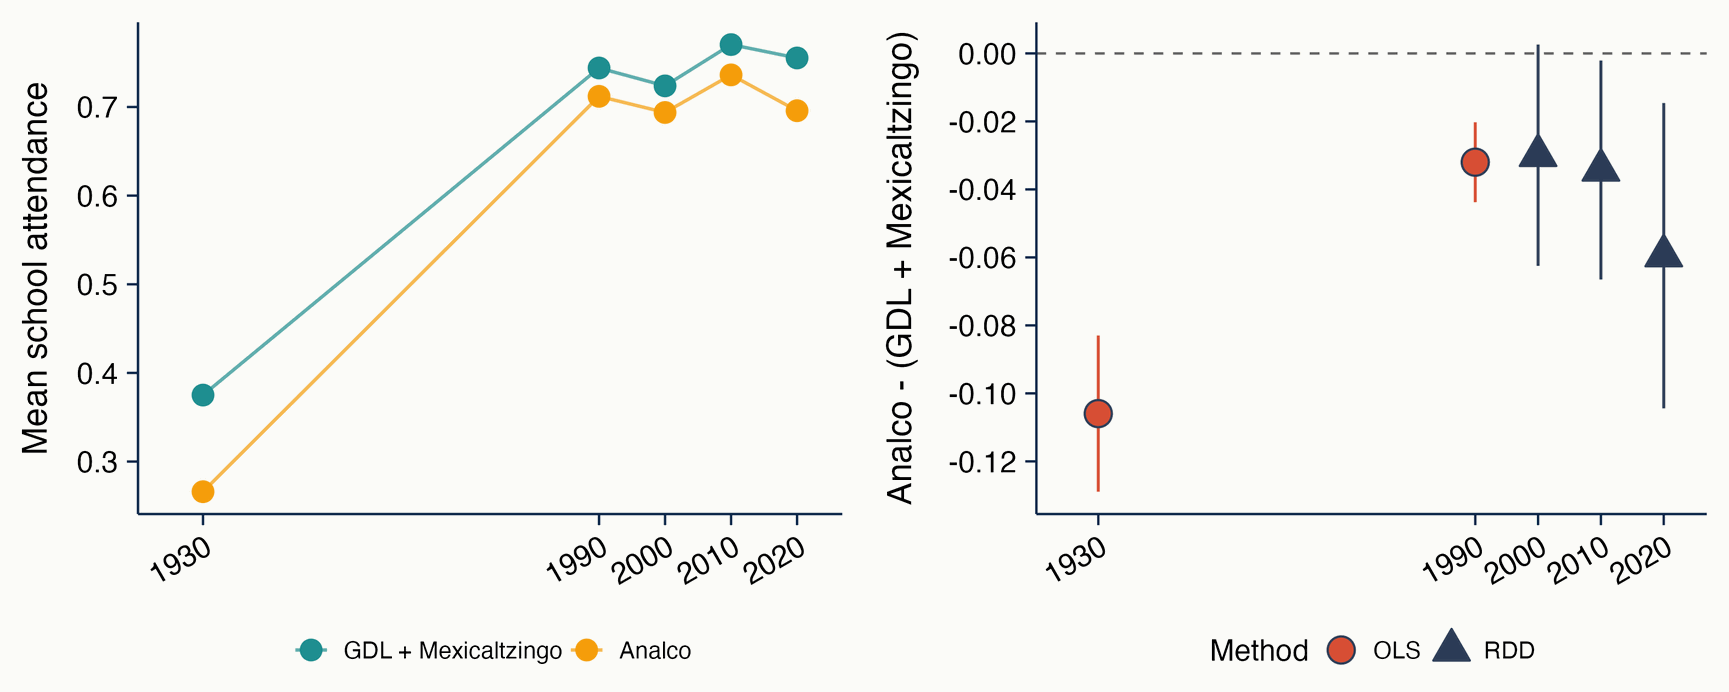
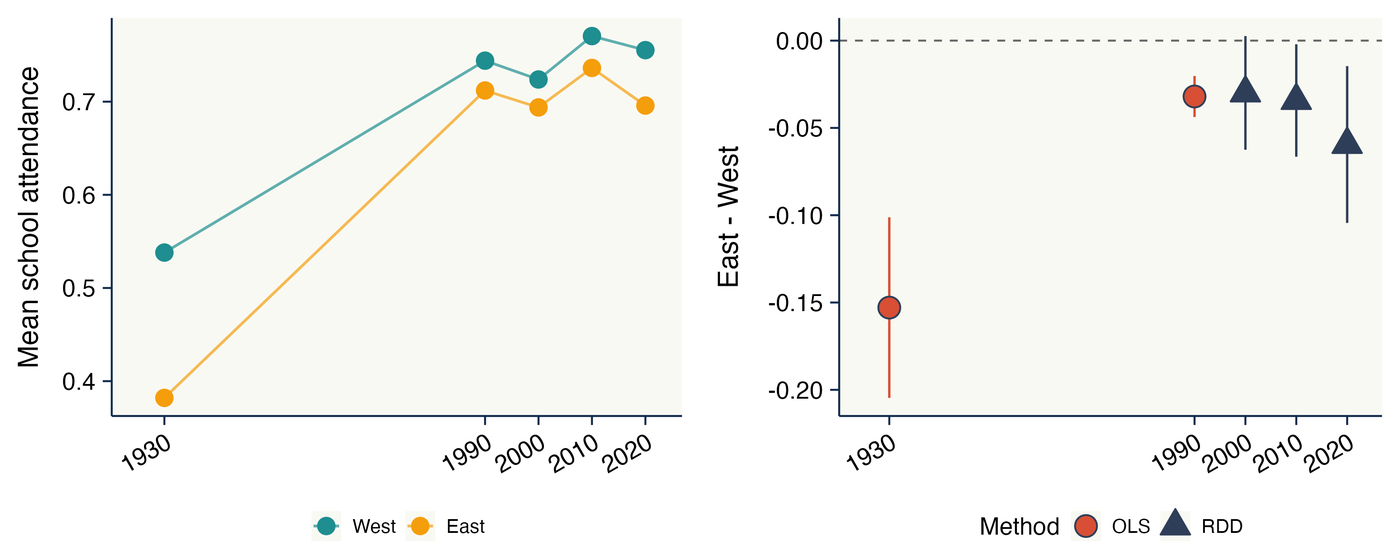
Update the last two hover figures of the job market paper
Both come from the current version of the paper: the attendance figure
now labels the sides West and East and plots the east-west gap, and the
experiment figure now carries the Map-After comparison across sides.
The attendance figure's alt text follows the new labels.

diff --git a/research.md b/research.md
@@ -19,7 +19,7 @@ order: 1
 <div class="fig fig--wide fig--cycle">
      <img src="{{ '/images/derived/ctx/AOLDR.jpg' | relative_url }}" alt="Historical bird's-eye map, La Ciudad de Guadalajara" loading="lazy">
      <img class="alt" src="{{ '/images/derived/jmp/jmp-rdd.png' | relative_url }}" alt="Years of schooling by distance to the creek and avenue, showing the discontinuity between Guadalajara and Mexicaltzingo on one side and Analco on the other" loading="lazy">
-     <img class="alt" src="{{ '/images/derived/jmp/jmp-attendance.png' | relative_url }}" alt="School attendance over time, 1930 to 2020: means for Guadalajara and Mexicaltzingo versus Analco, and the Analco gap estimated by OLS and RDD" loading="lazy">
+     <img class="alt" src="{{ '/images/derived/jmp/jmp-attendance.png' | relative_url }}" alt="School attendance over time, 1930 to 2020: means for the west and east sides, and the east-west gap estimated by OLS and RDD" loading="lazy">
      <img class="alt" src="{{ '/images/derived/jmp/jmp-priming.png' | relative_url }}" alt="Share of tutoring choices by side and treatment: Map-After control versus Map-First treatment on the west and east sides, with randomization-inference p-values" loading="lazy">
 </div>
 
